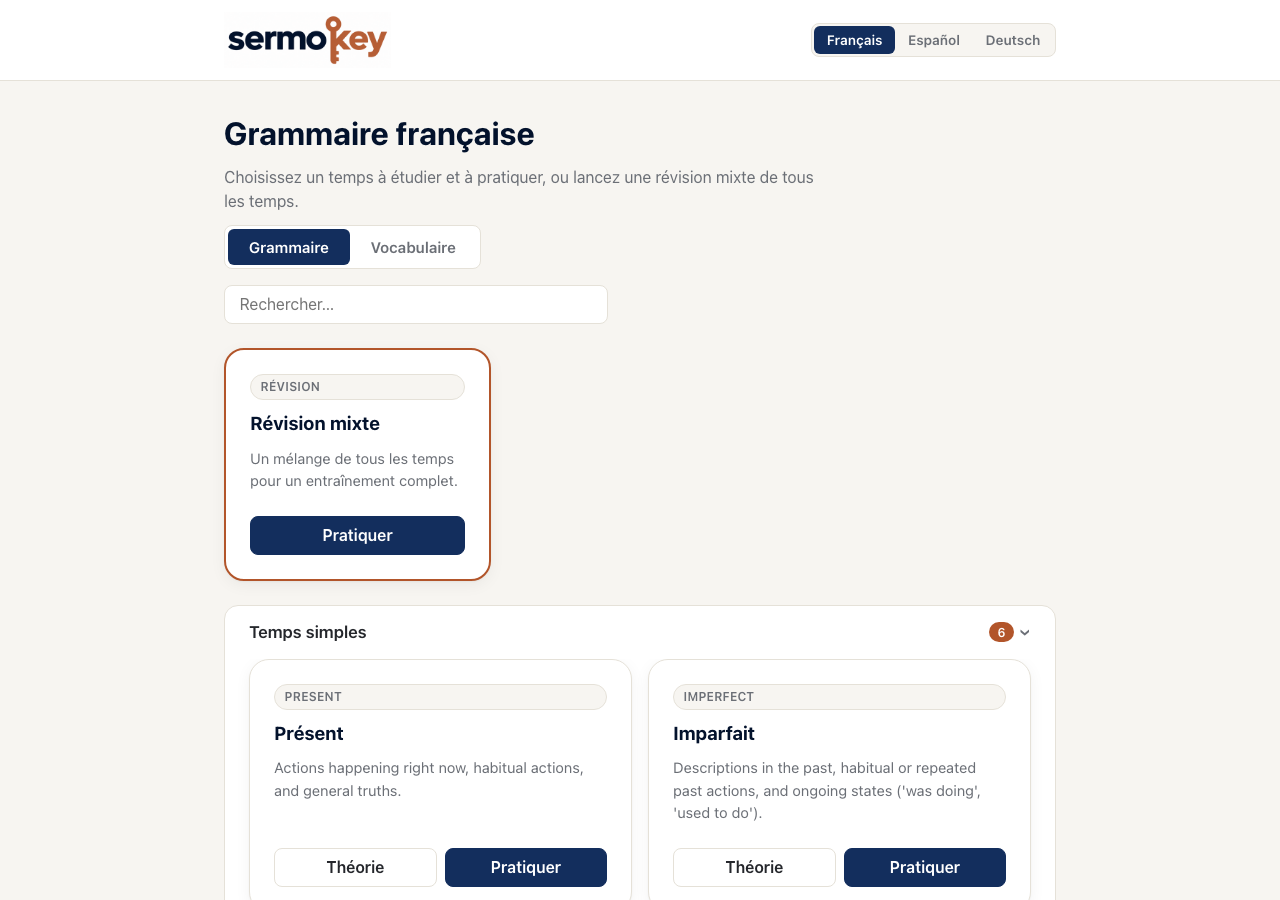
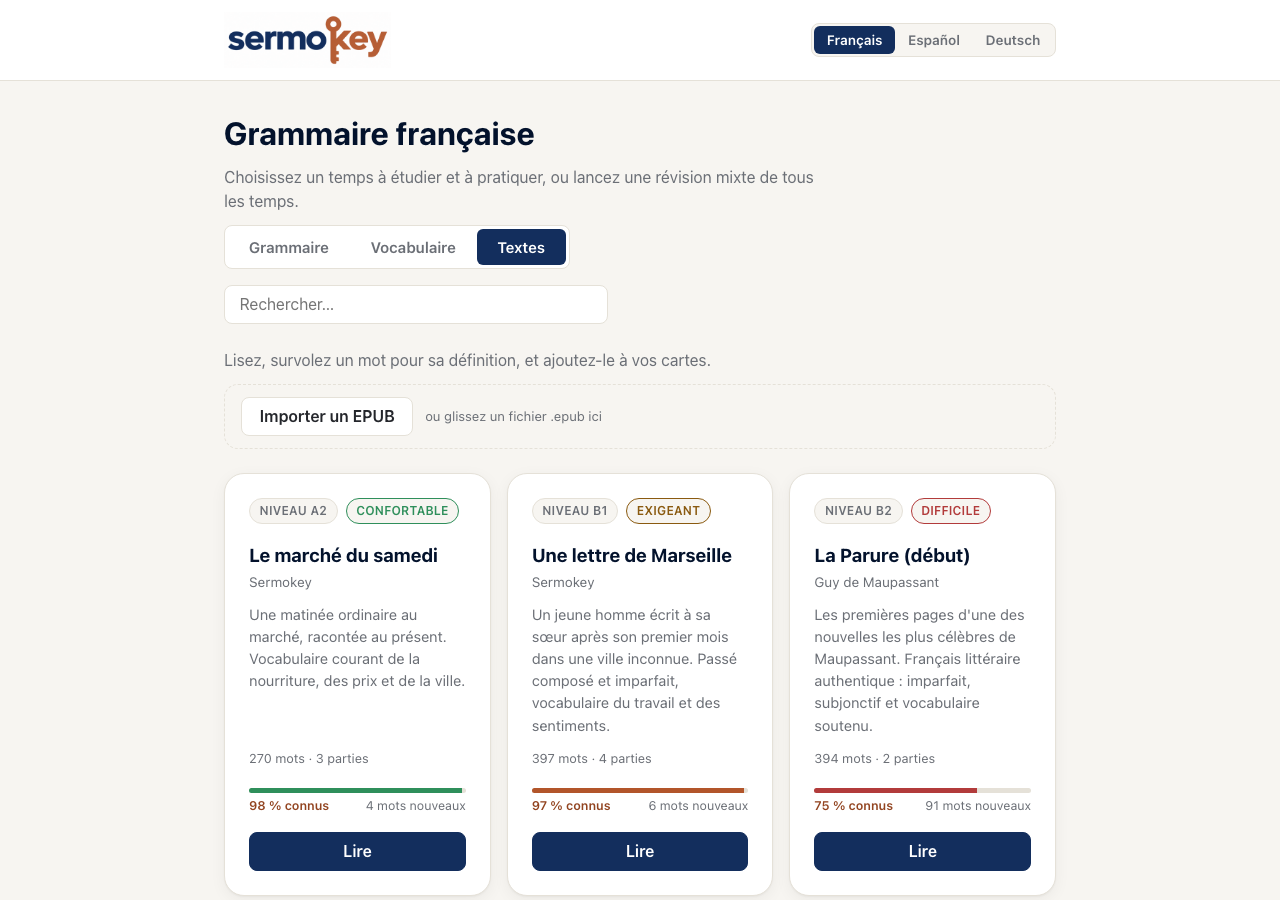
docs: show the reading feature in the README screenshots
The hero still showed the grammar tab, so nothing about the app's
newest and most distinctive capability was visible — refreshing it in
place changed one tab label and a shade of navy, which read as the same
picture.

It now shows the library: three texts with the per-reader difficulty
bands and the EPUB drop zone. A second shot in the Reading section
shows a text being read with a word hovered, which is the part that is
hard to describe and easy to recognise.

Both are captured from a deck part-way through the French vocabulary,
since the first-run state deliberately hides coverage until it has
something to report.

diff --git a/README.md b/README.md
@@ -11,7 +11,7 @@ flashcards, with immersive UI text in the language you're studying.
 Currently supported: **French**, **Spanish**, and **German**.
 
 <p align="center">
-  <img src="assets/screenshots/homepage.png" alt="Sermokey homepage" width="720" />
+  <img src="assets/screenshots/homepage.png" alt="The Sermokey library, showing three French texts with per-reader difficulty" width="720" />
 </p>
 
 ## Features
@@ -58,6 +58,10 @@ is the practical core of that, with the remainder acquired incidentally and
 through cognates.
 
 ## Reading
+
+<p align="center">
+  <img src="assets/screenshots/reader.png" alt="Reading a French text, hovering a word for its definition" width="720" />
+</p>
 
 The reading tab is built around four replaceable parts, because the goal is
 to read an imported EPUB with the same interface that reads the bundled
